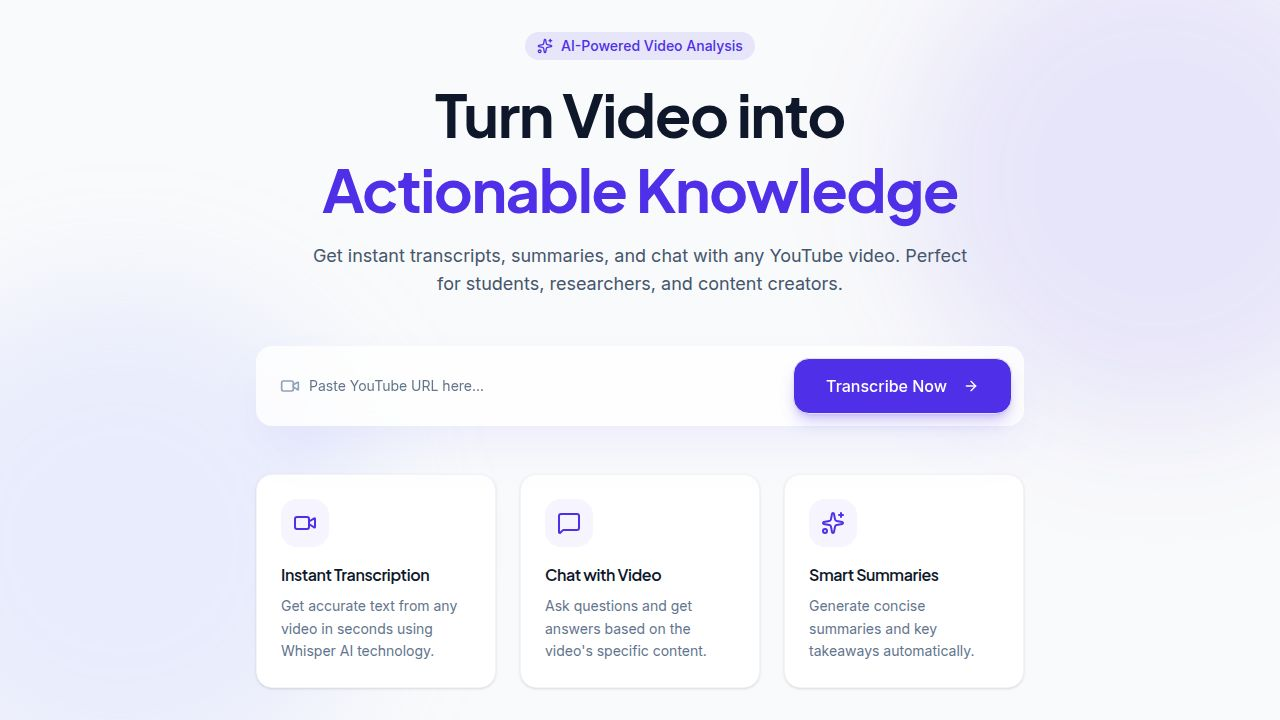
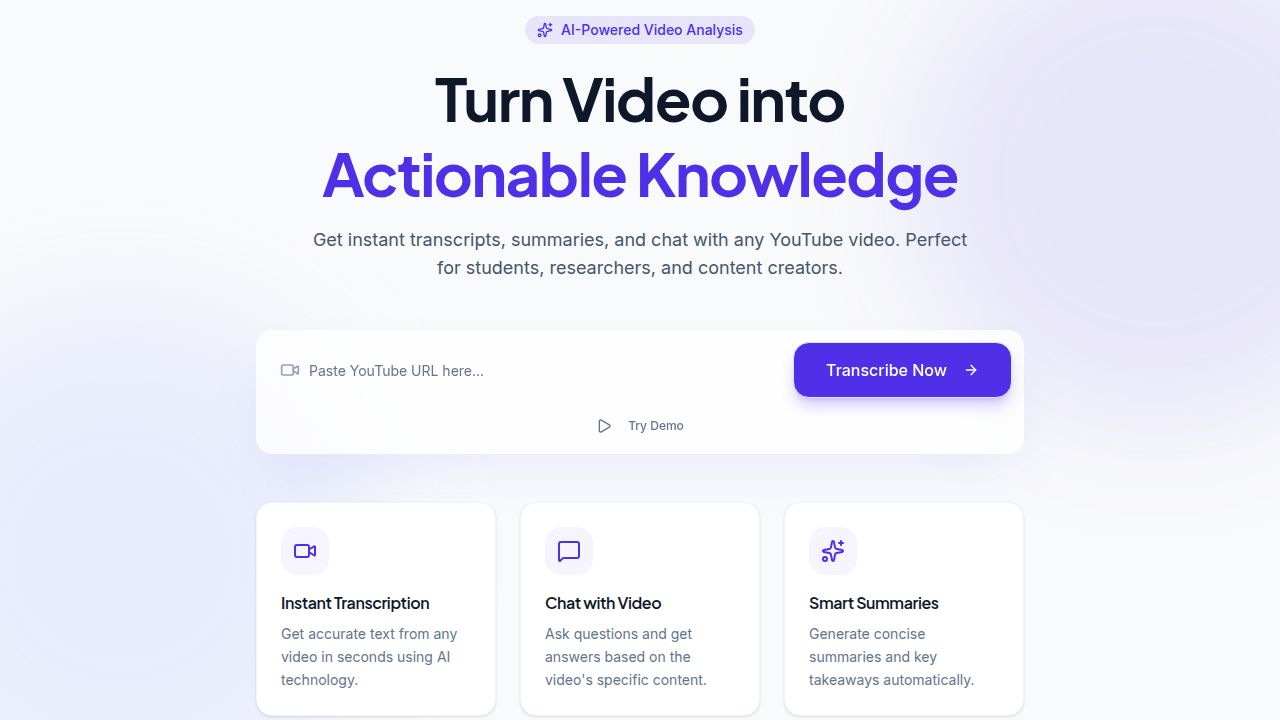
Add demo mode and fallback for API rate limits
Introduces a "Try Demo" button and demo data to the home page, allowing users to explore features when the transcription API rate limit is exceeded. Updates the error handling for API transcription requests.

Replit-Commit-Author: Agent
Replit-Commit-Session-Id: 9d946d08-be25-4c4a-8795-1620e52a5f50
Replit-Commit-Checkpoint-Type: full_checkpoint
Replit-Commit-Event-Id: 951a6d43-7159-459c-9edb-33cea4b7cbe1
Replit-Commit-Screenshot-Url: https://storage.googleapis.com/screenshot-production-us-central1/90f5f718-1cb4-4079-9a06-1668f8832496/9d946d08-be25-4c4a-8795-1620e52a5f50/feTBFxp
Replit-Helium-Checkpoint-Created: true

diff --git a/client/src/pages/home.tsx b/client/src/pages/home.tsx
@@ -1,4 +1,4 @@
-import { Video, Sparkles, MessageSquare, ArrowRight, Loader2 } from "lucide-react";
+import { Video, Sparkles, MessageSquare, ArrowRight, Loader2, Play } from "lucide-react";
 import { useState } from "react";
 import { useLocation } from "wouter";
 import { Button } from "@/components/ui/button";
@@ -7,6 +7,7 @@ import { Card, CardContent } from "@/components/ui/card";
 import { motion } from "framer-motion";
 import { transcribeVideo } from "@/lib/api";
 import { useToast } from "@/hooks/use-toast";
+import { DEMO_TRANSCRIPT } from "@/lib/demoData";
 
 export default function Home() {
   const [url, setUrl] = useState("");
@@ -21,15 +22,12 @@ export default function Home() {
     setIsLoading(true);
     try {
       const data = await transcribeVideo(url);
-      
-      // Store transcript data in sessionStorage for the dashboard
       sessionStorage.setItem('currentTranscript', JSON.stringify(data));
-      
       setLocation(`/watch/${data.videoId}`);
     } catch (error: any) {
       toast({
-        title: "Error",
-        description: error.message || "Could not transcribe video. Please try again.",
+        title: "API Limit Reached",
+        description: "Try the demo instead to explore all features!",
         variant: "destructive"
       });
     } finally {
@@ -37,9 +35,13 @@ export default function Home() {
     }
   };
 
+  const handleTryDemo = () => {
+    sessionStorage.setItem('currentTranscript', JSON.stringify(DEMO_TRANSCRIPT));
+    setLocation(`/watch/demo`);
+  };
+
   return (
     <div className="min-h-screen flex flex-col items-center justify-center p-4 relative overflow-hidden">
-      {/* Abstract Background Elements */}
       <div className="absolute inset-0 z-0 overflow-hidden pointer-events-none">
         <div className="absolute top-[-10%] right-[-10%] w-[500px] h-[500px] bg-primary/10 rounded-full blur-3xl" />
         <div className="absolute bottom-[-10%] left-[-10%] w-[500px] h-[500px] bg-indigo-300/20 rounded-full blur-3xl" />
@@ -101,6 +103,19 @@ export default function Home() {
                 )}
               </Button>
             </form>
+            <div className="mt-3 flex justify-center">
+              <Button 
+                type="button"
+                variant="ghost" 
+                size="sm"
+                onClick={handleTryDemo}
+                className="text-slate-500 hover:text-primary"
+                data-testid="button-try-demo"
+              >
+                <Play className="w-4 h-4 mr-2" />
+                Try Demo
+              </Button>
+            </div>
           </CardContent>
         </Card>
 

diff --git a/client/src/lib/demoData.ts b/client/src/lib/demoData.ts
@@ -1,0 +1,24 @@
+import type { TranscriptResponse } from "./api";
+
+export const DEMO_TRANSCRIPT: TranscriptResponse = {
+  id: "demo-123",
+  youtubeUrl: "https://youtube.com/watch?v=demo",
+  videoId: "dQw4w9WgXcQ",
+  title: "The Future of AI: How to Prepare Your Workflow",
+  channel: "Tech Insights",
+  transcript: [
+    { text: "Welcome back to the channel.", start: 0, duration: 3 },
+    { text: "Today we're going to talk about the future of artificial intelligence and how it's reshaping our daily workflows.", start: 3, duration: 8 },
+    { text: "Many people worry that AI is going to replace jobs, but I think the more interesting perspective is how it will augment human creativity.", start: 11, duration: 10 },
+    { text: "Let's look at a few examples.", start: 21, duration: 3 },
+    { text: "First, coding. Copilots aren't writing the whole app for you, but they are removing the tedious boilerplate.", start: 24, duration: 8 },
+    { text: "Second, design. Tools like Midjourney allow us to iterate on concepts in seconds rather than hours.", start: 32, duration: 8 },
+    { text: "But the real unlock comes when you combine these tools.", start: 40, duration: 5 },
+    { text: "Imagine a workflow where you sketch an idea, AI generates the assets, and another AI writes the glue code.", start: 45, duration: 10 },
+    { text: "We are moving from a world of 'creation' to a world of 'curation'. The skill of the future is taste.", start: 55, duration: 10 },
+    { text: "So, how do you prepare for this? Start by learning the limitations of these models.", start: 65, duration: 8 },
+    { text: "They hallucinate. They struggle with context.", start: 73, duration: 5 },
+    { text: "In this video, I'll show you my personal stack for AI-assisted productivity.", start: 78, duration: 8 },
+  ],
+  createdAt: new Date().toISOString(),
+};
